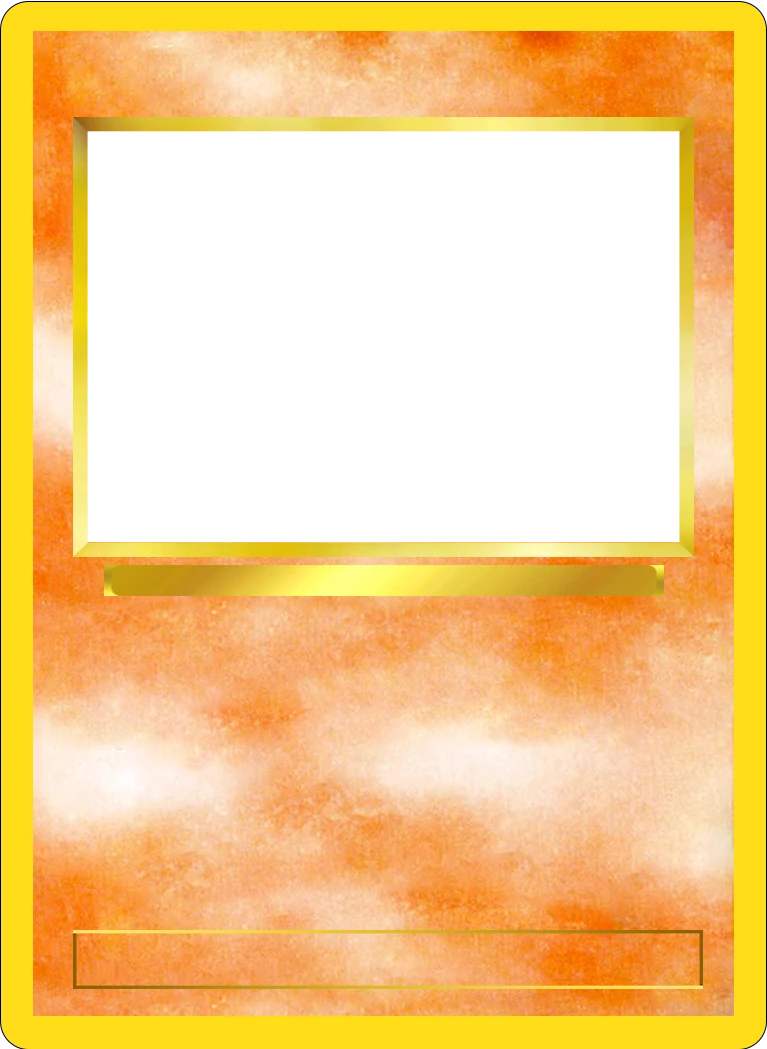
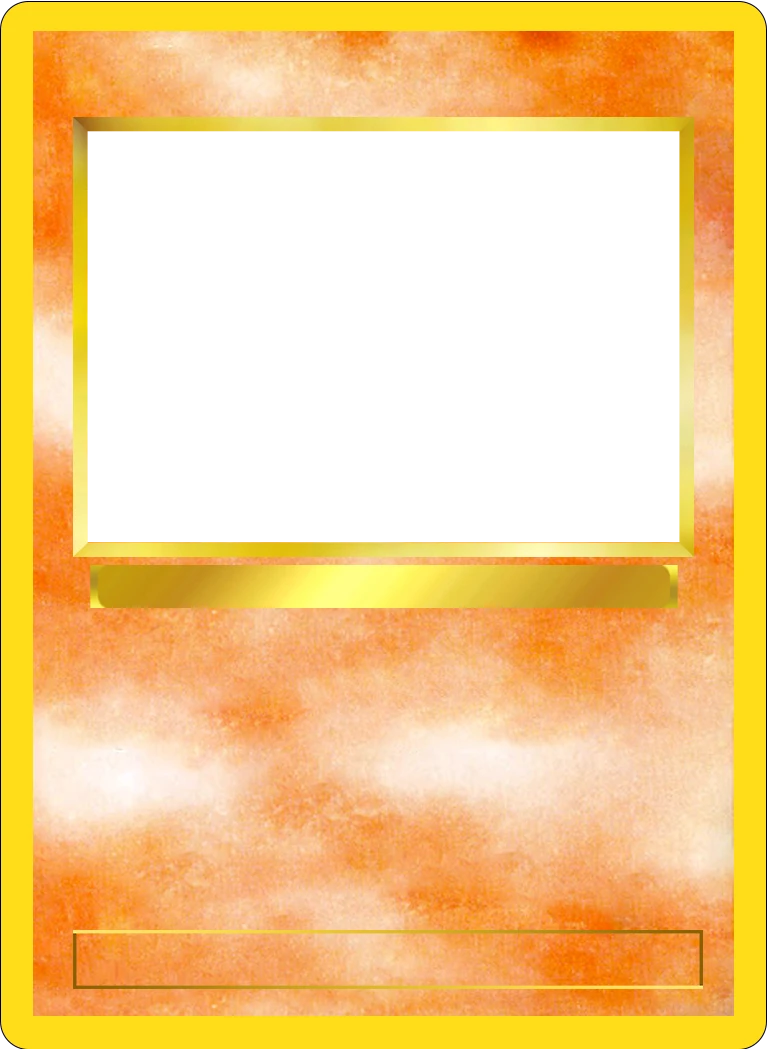
changed suggestion template to pokemon name only, fixed .pokemon-category

Changed region(s): [[0.1199, 0.5186, 0.8996, 0.5796]]

diff --git a/assets/js/template.js b/assets/js/template.js
@@ -35,12 +35,11 @@ function statBarTemplate(stat) {
   </span>`;
 }
 
-function suggestionTemplate(pokemon) {
+function suggestionTemplate(pokemonName) {
   return `
   <li>
-  <button type="button" data-name="${pokemon.name}">
-    <img src="${pokemon.spriteSrc}" alt="">
-    <span>${pokemon.displayName}</span>
-  </button>
-</li>`;
+    <button type="button" data-name="${pokemonName}">
+      <span>${pokemonName}</span>
+    </button>
+  </li>`;
 }

diff --git a/assets/css/pokemon_grid.css b/assets/css/pokemon_grid.css
@@ -119,7 +119,7 @@
 
 .card-species-bar {
     position: absolute;
-    top: 52.9%;
+    top: 53%;
     left: 0;
     right: 0;
     display: flex;
@@ -129,7 +129,7 @@
 
 .pokemon-category {
     color: var(--color-main);
-    font-size: 0.7rem;
+    font-size: 0.75rem;
     font-weight: 700;
     font-style: italic;
 }

diff --git a/script.js b/script.js
@@ -22,11 +22,12 @@ const TYPE_TO_TCG_ELEMENT = {
 };
 let currentOffset = 0;
 let isLoading = false;
-const allPokemonNames = [];
+let allPokemonNames = [];
 let isLoadingNames = false;
 
 function init() {
   infiniteScroll();
+  setupSearch();
 }
 init();
 
